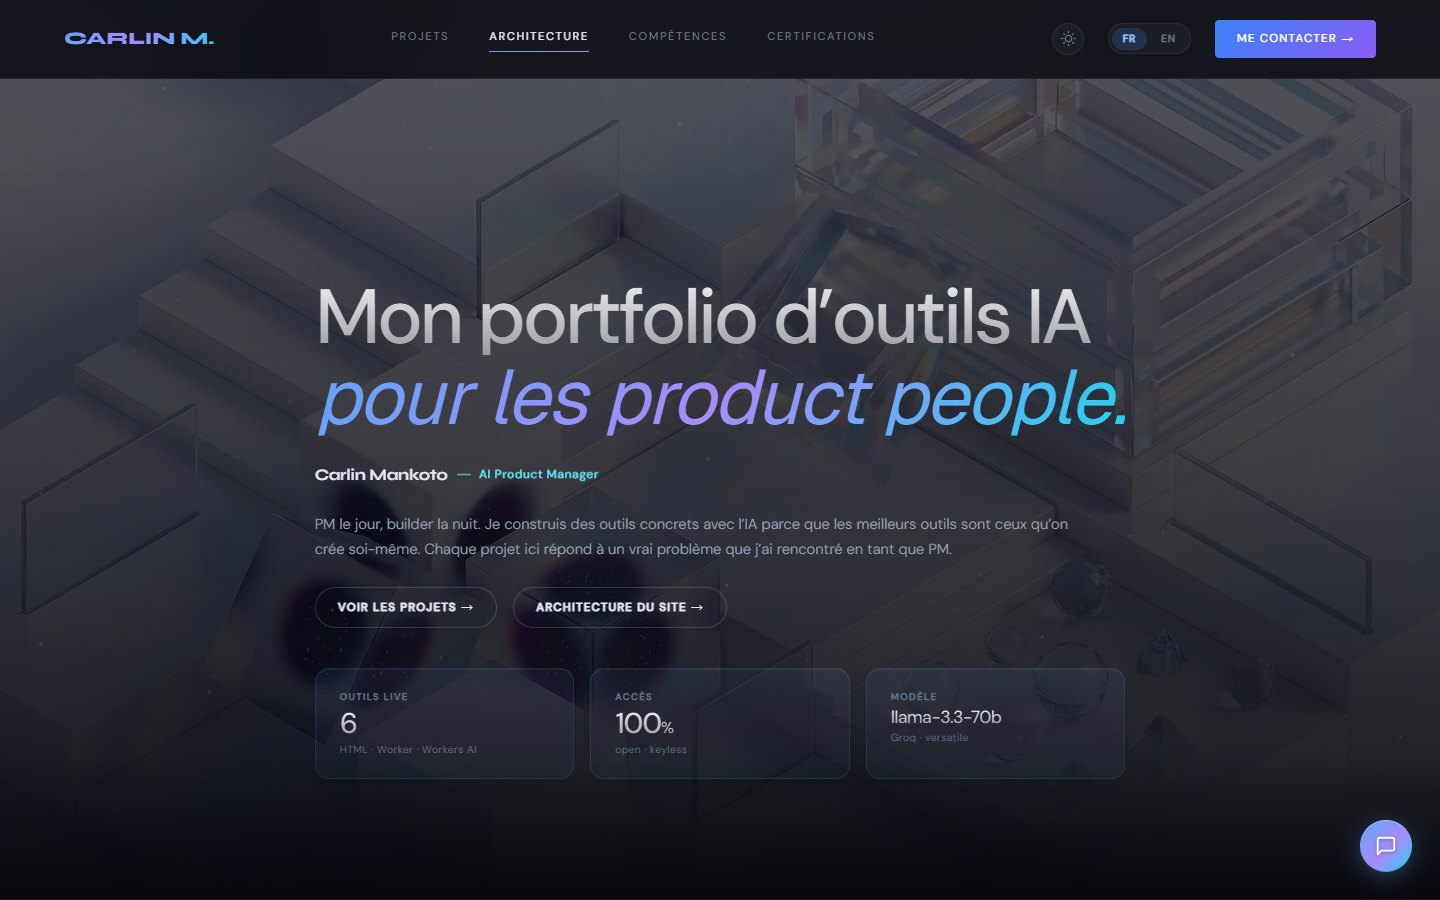
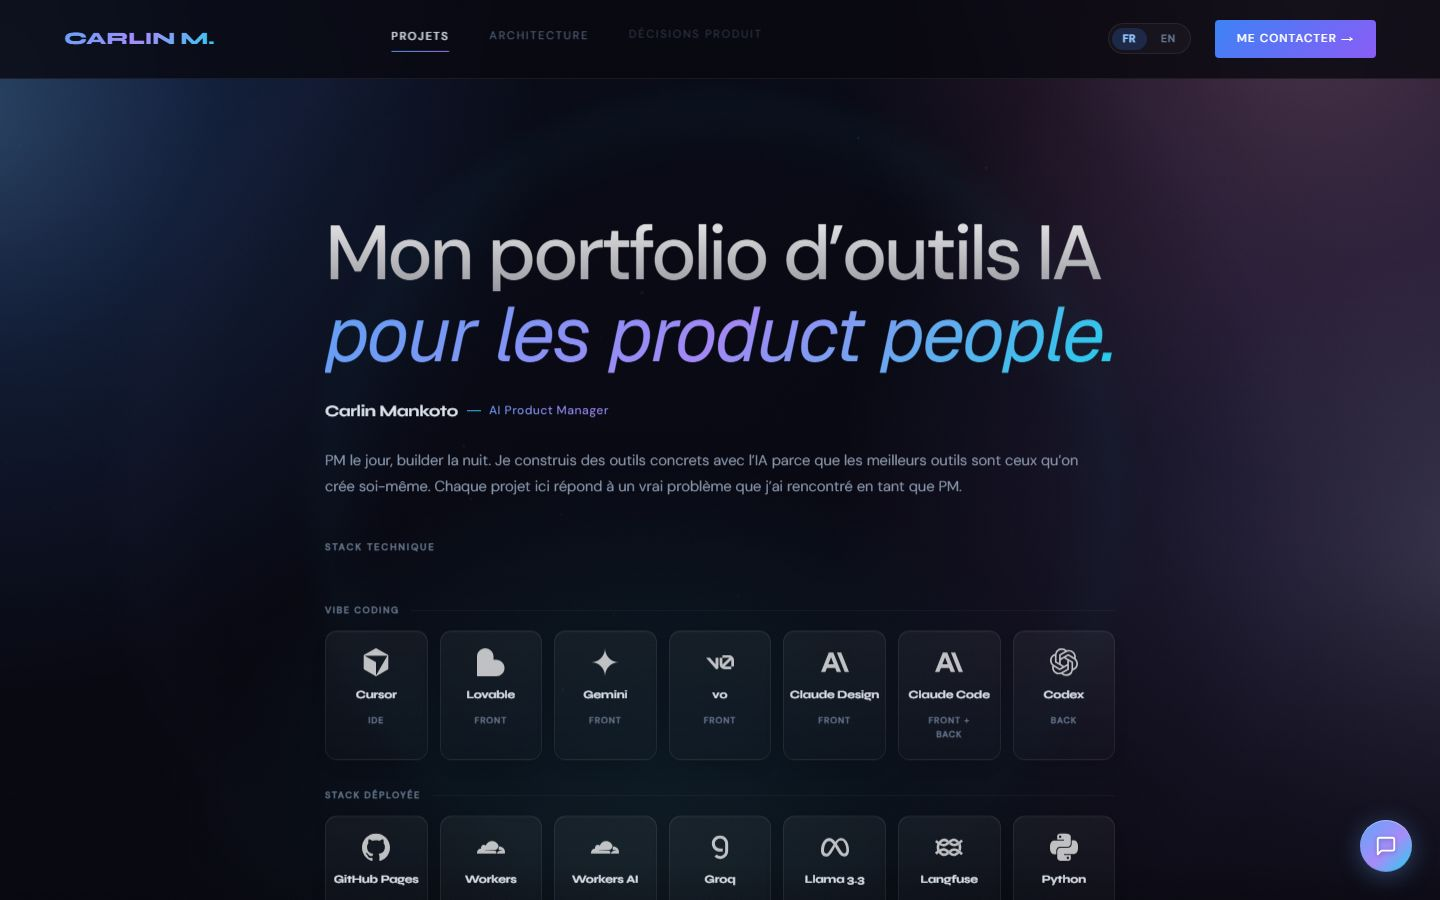
Update documentation for latest portfolio changes

diff --git a/README.md b/README.md
@@ -1,9 +1,11 @@
 # KRL1 — AI Product Management Portfolio
 
-Portfolio interactif de **Carlin Mankoto**, AI Product Manager, construit autour de trois expériences live :
+Portfolio interactif de **Carlin Mankoto**, AI Product Manager, construit autour de plusieurs expériences live :
 
 - un **PM Toolkit** de 6 outils IA pour structurer discovery, priorisation, OKR, user stories, roadmap et analyse d'interviews ;
 - un **RAG Explorer** pour interroger une base de connaissances product management depuis l'edge ;
+- une page **Product Decisions** qui documente les arbitrages produit derrière KRL1 ;
+- une **veille hebdo** Product / IA alimentée par un workflow Make ;
 - un mini-jeu web **Pixel Runner**.
 
 **Live :** [cmankotech.github.io/cmankotech](https://cmankotech.github.io/cmankotech/)
@@ -28,52 +30,50 @@ Portfolio interactif de **Carlin Mankoto**, AI Product Manager, construit autour
 | **Roadmap Storyteller** | Transformation de listes de features en narratifs de roadmap adaptés à l'audience |
 | **User Interview Analyzer** | Analyse d'interviews utilisateur : personas, pain points, opportunités |
 | **RAG Explorer** | Recherche sémantique dans une base de connaissances PM embarquée dans le Worker |
+| **Product Decisions** | 10 décisions produit derrière KRL1 : PLG, UX, contraintes, arbitrages et alternatives rejetées |
+| **Veille hebdo** | Veille Product, IA et AI Builders automatisée avec Make, exposée via le Worker |
 | **KRL1 Chat Widget** | Assistant flottant avec détection d'intent et routage contextuel vers les outils |
-| **Pixel Runner** | Mini-jeu arcade en JavaScript (esquive d'obstacles, score local) |
+| **Pixel Runner** | Mini-jeu arcade en JavaScript : esquive d'obstacles et score local |
 
 Chaque outil IA est une SPA autonome en HTML/CSS/JS vanilla, bilingue FR/EN. Le mini-jeu est aussi une page statique autonome.
 
 ## Architecture
 
-```
-┌─────────────────────────────────┐
-│   GitHub Pages (frontend)       │
-│   Portfolio + PM Toolkit + RAG  │
-│   krl1-widget.js (chat IA)     │
-└──────────┬──────────────────────┘
-           │ HTTPS
-┌──────────▼──────────────────────┐
-│   Cloudflare Worker (proxy/)    │
-│   Sécurise les clés API        │
-│   /orchestrate + /rag-query     │
-└──────────┬──────────────────────┘
-           │
-┌──────────▼──────────────────────┐
-│   Groq API (Llama 3.3 70B)     │
-└─────────────────────────────────┘
-
-┌─────────────────────────────────┐
-│   Workers AI (edge, gratuit)    │
-│   bge-small-en-v1.5 embeddings │
-│   RAG sémantique natif Worker  │
-└─────────────────────────────────┘
+```text
+GitHub Pages (frontend)
+  index.html, PM Toolkit, RAG Explorer, Product Decisions, Veille, Pixel Runner
+  krl1-widget.js
+        │ HTTPS
+        ▼
+Cloudflare Worker (proxy/)
+  /orchestrate, /orchestrate-stream, /rag-query, /feedback, /veille, /stats
+        │
+        ├── Groq API — llama-3.3-70b-versatile
+        ├── Workers AI — bge-small-en-v1.5 embeddings pour le RAG
+        ├── KV — usage counter + stockage de la veille
+        ├── Make — automation veille / feedback optionnel
+        └── Langfuse — observabilité optionnelle
 ```
 
 ## Stack technique
 
-- **Frontend :** HTML/CSS/JS vanilla, Google Fonts (Syne, DM Sans), thème sombre
+- **Frontend :** HTML/CSS/JS vanilla, Google Fonts (Syne, DM Sans, Geist), thème sombre avec mode clair sur certaines pages
 - **Chat widget :** `krl1-widget.js` — assistant conversationnel flottant avec détection d'intent et routage contextuel
-- **Proxy :** Cloudflare Workers (JavaScript), CORS, secrets serveur, KV pour compteur d'usage
+- **Proxy :** Cloudflare Workers (JavaScript), CORS, secrets serveur, KV pour compteur d'usage et stockage de veille
 - **RAG sémantique :** Workers AI (Cloudflare, bge-small-en-v1.5) — embeddings batch + cosine similarity, natif dans le Worker
 - **LLM :** Groq API (llama-3.3-70b-versatile)
+- **Automation :** Make pour la veille hebdomadaire et le pipeline feedback optionnel
+- **Observabilité :** Langfuse optionnel, non bloquant côté Worker
 - **Déploiement :** GitHub Pages (front) + Cloudflare Workers (proxy)
 
 ## Structure du projet
 
-```
+```text
 ├── index.html                  # Page portfolio principale
 ├── pm-toolkit.html             # Hub des 6 outils Product Management
 ├── rag-explorer.html           # Interface de recherche sémantique PM
+├── product-decisions.html      # Décisions produit et arbitrages KRL1
+├── veille.html                 # Veille Product / IA alimentée par Make
 ├── backlog-prioritizer.html    # Outil priorisation backlog
 ├── discovery-assistant.html    # Outil discovery produit
 ├── epic-to-userstories.html    # Outil décomposition d'epics
@@ -84,6 +84,7 @@ Chaque outil IA est une SPA autonome en HTML/CSS/JS vanilla, bilingue FR/EN. Le 
 ├── how-i-built-this.html       # Récit technique et décisions d'architecture
 ├── krl1-architecture.html      # Vue dédiée de l'architecture KRL1
 ├── krl1-widget.js              # Widget chat IA autonome
+├── tools/                      # Scripts de rendu pour les assets visuels
 ├── assets/                     # Fonds, vidéos et captures du README
 ├── orchestrator/               # Prototype Python LangGraph optionnel, non déployé
 ├── proxy/                      # Cloudflare Worker (JavaScript)
@@ -119,7 +120,7 @@ Depuis la racine :
 node --test tests/proxy.test.mjs
 ```
 
-Pour déployer en production :
+Pour déployer le Worker en production :
 
 ```bash
 npx wrangler deploy --config proxy/wrangler.toml

diff --git a/proxy/README.md b/proxy/README.md
@@ -2,7 +2,7 @@
 
 Proxy serverless qui sécurise la communication entre le frontend et l'API Groq. La clé API n'est jamais exposée côté client.
 
-Le Worker contient aussi l'orchestration native du widget KRL1 et le pipeline RAG sémantique via Workers AI.
+Le Worker contient aussi l'orchestration native du widget KRL1, le pipeline RAG sémantique via Workers AI, la veille hebdo alimentée par Make et un pipeline feedback optionnel.
 
 ## Routes
 
@@ -10,8 +10,11 @@ Le Worker contient aussi l'orchestration native du widget KRL1 et le pipeline RA
 |---|---|---|
 | `POST` | `/` | Proxy pass-through vers Groq (legacy) |
 | `POST` | `/orchestrate` | Orchestrateur 2 étapes : planner → synthesis |
-| `POST` | `/orchestrate-stream` | Version streaming (SSE) de l'orchestrateur |
+| `POST` | `/orchestrate-stream` | Version streaming SSE de l'orchestrateur |
 | `POST` | `/rag-query` | Recherche sémantique dans la base de connaissances PM, puis synthèse LLM |
+| `POST` | `/feedback` | Classification feedback via Make si configuré, sinon fallback Groq |
+| `GET` | `/veille` | Dernière veille hebdo stockée dans KV |
+| `POST` | `/veille` | Mise à jour de la veille par Make, protégée par `x-make-secret` |
 | `GET` | `/stats` | Statistiques d'utilisation publiques |
 
 ## Orchestrateur intégré
@@ -27,11 +30,26 @@ Si `LANGGRAPH_ORCHESTRATOR_URL` est configurée, le Worker peut déléguer `/orc
 
 `POST /rag-query` utilise Workers AI (`@cf/baai/bge-small-en-v1.5`) pour générer l'embedding de la requête, compare ce vecteur à la base PM embarquée dans le Worker, puis transmet le contexte retenu à Groq pour produire une réponse courte et actionnable.
 
+## Veille hebdo
+
+`GET /veille` expose publiquement la dernière édition de veille stockée dans KV.
+
+`POST /veille` est appelé par Make et nécessite le header `x-make-secret`. Le payload reçu est stocké tel quel dans `VEILLE_STORE` sous la clé `veille_latest`.
+
+## Feedback
+
+`POST /feedback` envoie le feedback au webhook Make si `MAKE_WEBHOOK_URL` est configurée. Si Make est indisponible ou non configuré, le Worker utilise Groq pour catégoriser le message et retourne une réponse structurée.
+
+## Observabilité
+
+Langfuse est optionnel. Si `LANGFUSE_PUBLIC_KEY` et `LANGFUSE_SECRET_KEY` sont configurées, le Worker envoie les traces d'orchestration de façon non bloquante via `ctx.waitUntil()`.
+
 ## Sécurité
 
-- Validation de l'origine (whitelist : `https://cmankotech.github.io`)
+- Validation de l'origine pour les routes POST publiques du frontend (`https://cmankotech.github.io`)
 - Headers CORS configurés pour l'origine autorisée uniquement
-- Clé API injectée côté serveur via les secrets Cloudflare
+- Clé Groq injectée côté serveur via les secrets Cloudflare
+- `POST /veille` protégé par secret partagé Make
 
 ## Configuration
 
@@ -39,10 +57,15 @@ Variables d'environnement (secrets Cloudflare) :
 
 - `GROQ_KEY` — Clé API Groq (obligatoire)
 - `LANGGRAPH_ORCHESTRATOR_URL` — URL de l'orchestrateur LangGraph optionnel, par exemple `https://example.com/orchestrate`
+- `MAKE_SECRET` — secret partagé requis pour `POST /veille`
+- `MAKE_WEBHOOK_URL` — webhook Make optionnel pour `/feedback`
+- `LANGFUSE_PUBLIC_KEY` — clé publique Langfuse optionnelle
+- `LANGFUSE_SECRET_KEY` — clé secrète Langfuse optionnelle
 
-KV Namespace :
+KV Namespaces :
 
-- `USAGE_COUNTER` — Compteur d'utilisation (incrémenté de façon asynchrone via `ctx.waitUntil()`)
+- `USAGE_COUNTER` — Compteur d'utilisation incrémenté de façon asynchrone
+- `VEILLE_STORE` — Stockage de la dernière veille hebdomadaire
 
 Bindings Cloudflare :
 
